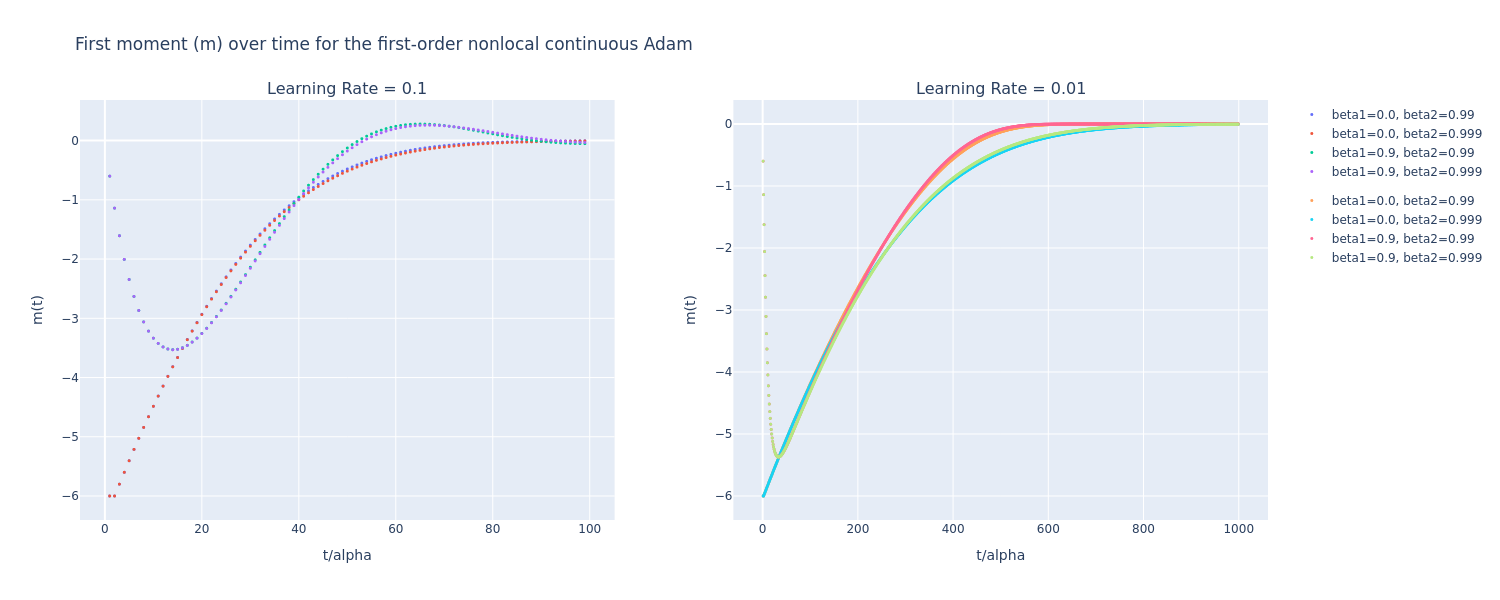
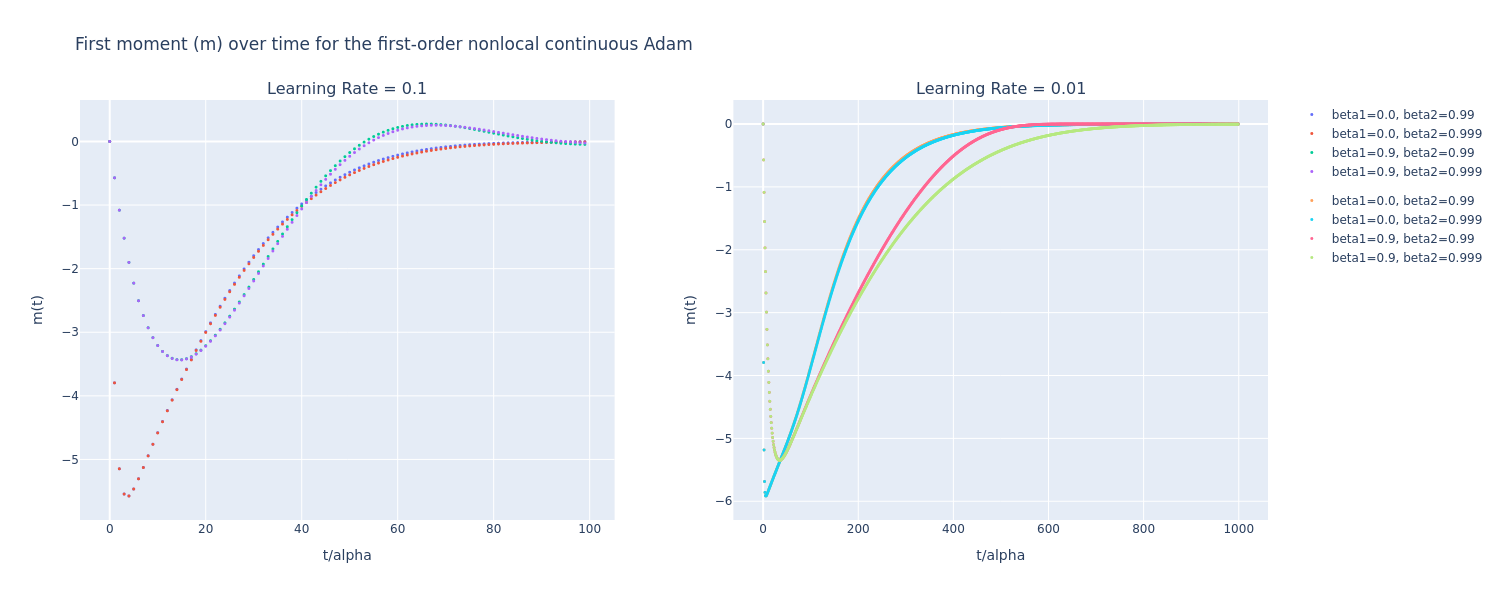
mejoras

diff --git a/Solver/adamsolver.py b/Solver/adamsolver.py
@@ -1,9 +1,10 @@
 import numpy as np
 from typing import Callable
 from typing import Tuple
+from jax import lax
 import jax.numpy as jnp
 from interpax import interp1d
-from .base.common import _NonlocalSolverBase, _ema, DTYPE
+from .base.common import _NonlocalSolverBase, DTYPE, fixed_quad_jax
 
 try:
     import jax
@@ -84,27 +85,93 @@ class AdamMomentum:
 
     
 class NonlocalSolverMomentumAdam(_NonlocalSolverBase):
+    """
+    θ̇(t) = -α(t) · m̄(t) / ( √v̄(t) + ε(t) )
+    con   m̄, v̄  dados por los núcleos exponenciales K₁, K₂
+          Kₐ(t) = (1-βₐ)/α · e^{-(1-βₐ) t / α},     a = 1,2.
+    """
     def __init__(self, *args,
                  betas: Tuple[float, float] = (0.9, 0.999),
+                 eps_base: float = 1e-8,
                  **kw):
         super().__init__(*args, **kw)
         self.beta1, self.beta2 = map(DTYPE, betas)
-        self._alpha_t = lambda t: jnp.where(t <= 1e-12, 1., jnp.sqrt(1 - self.beta2 ** (t / self.alpha)) / (1 - self.beta1 ** (t / self.alpha)))
-        self._eps_t = lambda t: jnp.sqrt(1 - self.beta2 ** (t / self.alpha)) * DTYPE(1e-8)
+        self.eps_base = DTYPE(eps_base)
 
-    # ---------- hooks concretos ----------
+        # Factores de corrección (5)-(6) de la proposición
+        self._alpha_t = lambda t: jnp.where(
+            t <= 1e-12,
+            1.,
+            jnp.sqrt(1. - self.beta2 ** (t / self.alpha)) / (1. - self.beta1 ** (t / self.alpha))
+        )
+        self._eps_t = lambda t: jnp.where(
+            t <= 1e-12,
+            self.eps_base,                                   
+            self.eps_base * jnp.sqrt(1. - self.beta2 ** (t / self.alpha))
+        )
+
+        # --- pre-cálculo de matrices de pesos ---
+        dt        = self.t[:, None] - self.t[None, :]    # t_i - t_j
+        self._tri = dt >= 0                              # máscara causal
+
+        self.lam1 = (1. - self.beta1) / self.alpha       # λ₁ = (1-β₁)/α
+        self.lam2 = (1. - self.beta2) / self.alpha       # λ₂ = (1-β₂)/α
+
+        # e^{-λ (t_i - t_j)}  (máscara causal se aplica en _build_stats)
+        self._exp1 = jnp.exp(-self.lam1 * dt)
+        self._exp2 = jnp.exp(-self.lam2 * dt)
+
+
+    # ------------------------------------------------------------------
     def _build_stats(self, y):
-        interp = self._interp(y)
-        g = jax.vmap(lambda t: self.dL(interp(t)) + 0.5 * self.lambda_ * interp(t))(self.t)
-        m = _ema(self.beta1, g)
-        v = _ema(self.beta2, g**2)
-        v_sqrt  = jnp.sqrt(v)
-        self._last_m = jnp.stack((self.t, m), axis=1)      
-        self._last_v = jnp.stack((self.t, v), axis=1)  
-        return (y, m, v_sqrt, jax.vmap(self._alpha_t)(self.t), jax.vmap(self._eps_t)(self.t))
+        if self.verbose:
+            jax.debug.print("¿NaNs en y?: {}", jnp.isnan(y).any())
 
+        interp = self._interp(y)
+        lam1 = (1. - self.beta1) / self.alpha
+        lam2 = (1. - self.beta2) / self.alpha
+        nGL  = int(1e3)
+
+        def g_fun(tau):
+            return self.dL(interp(tau)) + 0.5*self.lambda_ * interp(tau)
+        
+        @jax.jit
+        def _moments_single(t,lam):
+            def _compute(_t):
+                ker = lambda tau: jnp.exp(-lam * (_t - tau))
+                f_m = lambda tau: lam * ker(tau) * g_fun(tau)
+                f_v = lambda tau: lam * ker(tau) * g_fun(tau)**2
+                m_k = fixed_quad_jax(f_m, 1e-12, _t, nGL, verbose=self.verbose)
+                v_k = fixed_quad_jax(f_v, 1e-12, _t, nGL, verbose=self.verbose)
+                if self.verbose:
+                    jax.debug.print("step values → nGL ={}  t={}  m={}  v={}", nGL, t, m_k, v_k)
+                return m_k, v_k
+            return lax.cond(t < 1e-12, lambda _: (DTYPE(0.), DTYPE(0.)), _compute, t)
+
+        # vectorizado sobre la malla
+        m = jax.vmap(lambda t: _moments_single(t,lam1)[0])(self.t)
+        v = jax.vmap(lambda t: _moments_single(t,lam2)[1])(self.t)
+
+        if self.verbose:                             
+            # imprime 3 primeros y el último punto como muestra
+            jax.debug.print("m[0]={:.3e}, v[0]={:.3e}", m[0], v[0])
+            jax.debug.print("m[1]={:.3e}, v[1]={:.3e}", m[1], v[1])
+            jax.debug.print("m[-1]={:.3e}, v[-1]={:.3e}", m[-1], v[-1])
+
+        self._last_m = jnp.stack((self.t, m), axis=1)
+        self._last_v = jnp.stack((self.t, v), axis=1)
+
+        v_sqrt = jnp.sqrt(v)
+        a_t    = jax.vmap(self._alpha_t)(self.t)
+        eps_t  = jax.vmap(self._eps_t)(self.t)
+
+        return (y, m, v_sqrt, a_t, eps_t)
+
+    # ------------------------------------------------------------------
     def _rhs(self, t, y_prev, idx, y_fix, m, v_sqrt, a_t, eps_t):
-        y_val = interp1d(t, self.t, y_fix, method="cubic")
+        """
+        θ̇_i(t) = - α(t) * m_i(t) / ( √v_i(t) + ε(t) )
+        """
+        y_val = interp1d(t, self.t, y_fix, method="cubic", extrap=True)
         denom = v_sqrt[idx] + eps_t[idx]
         return self.f(t, y_val) - a_t[idx] * (m[idx] / denom)
-    

diff --git a/Solver/rmspropsolver.py b/Solver/rmspropsolver.py
@@ -1,7 +1,9 @@
 import jax.numpy as jnp
-from .base.common import _NonlocalSolverBase, _ema, DTYPE
+from .base.common import _NonlocalSolverBase, DTYPE, fixed_quad_jax
 import numpy as np
 from typing import Callable
+from interpax import interp1d
+from jax import lax
 
 try:
     import jax
@@ -65,18 +67,65 @@ class RMSPropMomentum:
     
     
 class NonlocalSolverMomentumRMSProp(_NonlocalSolverBase):
-    def __init__(self, *args, beta: float = 0.99, **kw):
+    r"""
+    θ̇(t) = - ḡ(t) / ( √v̄(t) + ε(t) )
+
+    con  
+      ḡ(t) = dL(θ(t)) + ½λ θ(t)  
+      v̄(t) = ∫₀ᵗ (1-β)/α · e^{-(1-β)(t-tau)/α} · g(tau)² dtau  
+            ≈ fixed_quad_jax(...)
+    """
+    def __init__(self, *args,
+                 beta: float = 0.99,
+                 eps_base: float = 1e-8,
+                 **kw):
         super().__init__(*args, **kw)
-        self.beta = DTYPE(beta)
-        self.eps  = DTYPE(1e-8)
+        self.beta      = DTYPE(beta)
+        self.eps_base  = DTYPE(eps_base)
+        self.lam       = (1. - self.beta) / self.alpha
 
     def _build_stats(self, y):
+        if self.verbose:
+            jax.debug.print("¿NaNs en y?: {}", jnp.isnan(y).any())
+
         interp = self._interp(y)
-        g      = jax.vmap(lambda τ: self.dL(interp(τ))
-                        + 0.5 * self.lambda_ * interp(τ))(self.t)
-        v_sqrt = jnp.sqrt(_ema(self.beta, g*g))
-        return (y, g, v_sqrt)          
+        t_vec = self.t
+        lam   = self.lam
+        nGL   = int(1e3)
+
+        def g_fun(tau):
+            return self.dL(interp(tau)) + 0.5*self.lambda_ * interp(tau)
+
+        @jax.jit
+        def _v_single(t):
+            def _compute(_t):
+                ub = _t + self.alpha
+                ker = lambda tau: jnp.exp(-lam * (ub - tau))
+                f_v = lambda tau: lam * ker(tau) * g_fun(tau)**2
+                v_k = fixed_quad_jax(f_v, 1e-12, ub, nGL, verbose=self.verbose)
+                if self.verbose:
+                    jax.debug.print("step values → nGL ={}  t={}  v={}", nGL, t, v_k)
+                return v_k
+            return lax.cond(t < 1e-12, lambda _: DTYPE(0.), _compute, t)
+
+        # vectorizado sobre la malla
+        g     = jax.vmap(g_fun)(t_vec)
+        v     = jax.vmap(_v_single)(t_vec)
+
+        if self.verbose:                             
+            # imprime 3 primeros y el último punto como muestra
+            jax.debug.print("g[0]={:.3e}, v[0]={:.3e}", g[0], v[0])
+            jax.debug.print("g[1]={:.3e}, v[1]={:.3e}", g[1], v[1])
+            jax.debug.print("g[-1]={:.3e}, g[-1]={:.3e}", g[-1], v[-1])
+
+        self._last_v = jnp.stack((t_vec, v), axis=1)
+
+        # devuelve stats: y, g_vector, √v
+        return (y, g, jnp.sqrt(v))
 
     def _rhs(self, t, y_prev, idx, y_fix, g, v_sqrt):
-        y_val = interp1d(t, self.t, y_fix, method="cubic")
-        return self.f(t, y_val) - g[idx] / (v_sqrt[idx] + self.eps)
+        """ θ̇_i(t) = - g_i(t) / ( √v_i(t) + ε ) """
+        y_val = interp1d(t, self.t, y_fix, method="cubic", extrap=True)
+        denom = v_sqrt[idx] + self.eps_base
+        return self.f(t, y_val) - g[idx] / denom
+    

diff --git a/Solver/base/common.py b/Solver/base/common.py
@@ -5,22 +5,42 @@ No se debe instanciar directamente.
 from __future__ import annotations
 from functools import partial
 from typing import Callable, Tuple, Any
-import jax
-import jax.numpy as jnp
-from interpax import interp1d          # pip install interpax
+import jax, jax.numpy as jnp
+from jax import lax
+from interpax import interp1d         
+import numpy as _npx  
 
 jax.config.update("jax_enable_x64", True)         
 DTYPE = jnp.float64
 
-@jax.jit
-def _ema(beta: DTYPE, seq: jnp.ndarray) -> jnp.ndarray:
-    """Exponential Moving Average vectorizado (una única compilación)."""
-    def body(prev, x):
-        new = beta * prev + (1. - beta) * x
-        return new, new
-    _, out = jax.lax.scan(body, DTYPE(0.), seq)
-    return out
+_GL_CACHE = {n: tuple(map(jnp.asarray, _npx.polynomial.legendre.leggauss(n))) for n in range(2, int(1e3))}
 
+def fixed_quad_jax(fun, a, b, n, *, verbose=False, tol=1e-12):
+    """
+    Gauss–Legendre de orden n (n<=10).
+    Acepta a,b escalares  o  vectores broadcast-compatibles.
+    """
+    try:
+        xg, wg = _GL_CACHE[n]
+    except KeyError:
+        xg, wg = map(jnp.asarray, _npx.polynomial.legendre.leggauss(n))
+
+    a_arr = jnp.reshape(a, (-1,))          # ()  -> (1,)
+    b_arr = jnp.reshape(b, (-1,))          # idem
+
+    def _int(lo, hi):
+        sign = jnp.where(hi < lo, -1., 1.)
+        lo,  hi = jnp.minimum(lo, hi), jnp.maximum(lo, hi)
+        mid  = 0.5 * (hi + lo)
+        half = 0.5 * (hi - lo)
+        pts  = mid + half * xg
+        vals = jax.vmap(fun)(pts)
+        res  = sign * half * jnp.sum(wg * vals, axis=0)
+        if verbose:                       
+            jax.debug.print("fixed_quad: a={} b={}  res={}", a, b, res)
+        return jnp.where(jnp.abs(hi-lo) < tol, 0., res)
+    res = jax.vmap(_int)(a_arr, b_arr)
+    return res[0] if jnp.ndim(a) == 0 else res
 
 class _NonlocalSolverBase:
     """
@@ -39,7 +59,7 @@ class _NonlocalSolverBase:
                  y0,
                  alpha: float,
                  lambda_: float = 0.,
-                 verbose: bool = True):
+                 verbose: bool = False):
 
         self.f  = jax.jit(f)  if not hasattr(f, "lower") else f
         self.dL = jax.jit(dL) if not hasattr(dL, "lower") else dL
@@ -66,7 +86,7 @@ class _NonlocalSolverBase:
     # ---------- helpers -------------------------------------------------
     def _interp(self, y: jnp.ndarray):
         """Interpolador cúbico – no se jittea (evita recompilaciones)."""
-        return lambda τ: interp1d(τ, self.t, y, method="cubic")
+        return lambda t: interp1d(t, self.t, y, method="cubic", extrap=True)
 
     # ---------------------------------------------------------------
     @staticmethod
@@ -153,7 +173,7 @@ class _NonlocalSolverBase:
             y_cur = y_relax
             self.iteration += 1
 
-            if self.iteration % 20 == 0 and self.verbose:
+            if self.iteration % 20 == 0:
                 print(f"Iter {self.iteration} – err {err}")
 
             if self.iteration >= self.max_iteration:

diff --git a/Solver/adagradsolver.py b/Solver/adagradsolver.py
@@ -62,16 +62,27 @@ class NonlocalSolverAdaGrad(_NonlocalSolverBase):
         super().__init__(*args, **kw)
         self.lr_decay = DTYPE(lr_decay)
         self.eps      = DTYPE(1e-8)
-        self._alpha_t = lambda τ: 1. / (1. + τ * (self.lr_decay / self.alpha))
+        self._alpha_t = lambda t: 1. / (1. + t * (self.lr_decay / self.alpha))
 
     def _build_stats(self, y):
         interp = self._interp(y)
-        g      = jax.vmap(lambda τ: self.dL(interp(τ))
-                        + 0.5 * self.lambda_ * interp(τ))(self.t)
-        G_sqrt = jnp.sqrt(jnp.cumsum(g*g))
+        g      = jax.vmap(lambda t: self.dL(interp(τ)) + 0.5 * self.lambda_ * interp(t))(self.t)
+        G       = jnp.cumsum(g**2)
+
+        G_shift = jnp.concatenate([G[1:], G[-1:]]) # último valor repetido
+        G_sqrt  = jnp.sqrt(G_shift)
+
+        a_t = jax.vmap(self._alpha_t)(self.t)
+
+        self._last_G = jnp.stack((self.t, G), axis=1) 
+
         return (y, g, G_sqrt, jax.vmap(self._alpha_t)(self.t))
 
     def _rhs(self, t, y_prev, idx, y_fix, g, G_sqrt, a_t):
+        """
+        θ̇(t) = - α(t) · g(t) / ( √G(t+α) + ε )
+        """
         y_val = interp1d(t, self.t, y_fix, method="cubic")
-        return self.f(t, y_val) - a_t[idx] * g[idx] / (G_sqrt[idx] + self.eps)
+        denom = G_sqrt[idx] + self.eps
+        return self.f(t, y_val) - a_t[idx] * g[idx] / denom
     

diff --git a/Solver/base/__init__.py b/Solver/base/__init__.py
@@ -1,2 +1,2 @@
-from .common import _NonlocalSolverBase, _ema, DTYPE
-__all__ = ["_NonlocalSolverBase", "_ema", "DTYPE"]
+from .common import _NonlocalSolverBase,  DTYPE, fixed_quad_jax
+__all__ = ["_NonlocalSolverBase", "DTYPE", "fixed_quad_jax"]
